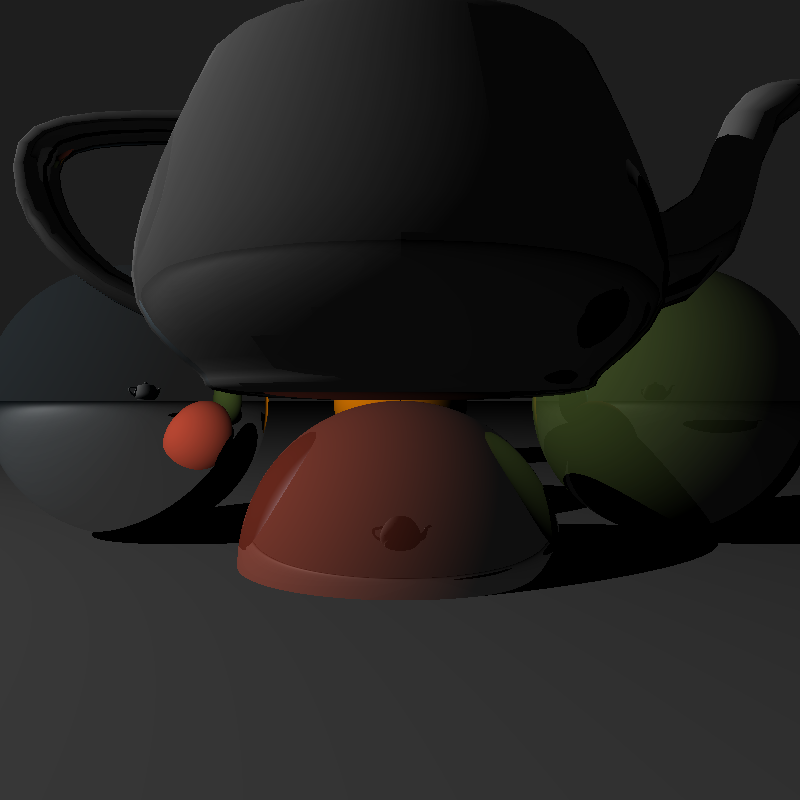
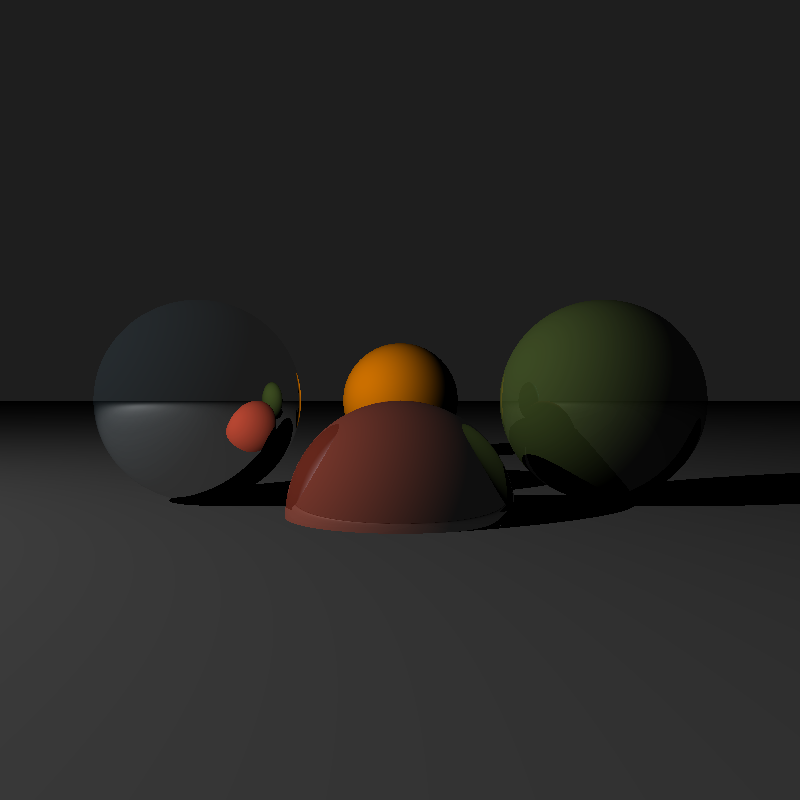
perf: parallel tracing

diff --git a/src/main.rs b/src/main.rs
@@ -1,11 +1,14 @@
 #![feature(range_contains)]
 
-//extern crate serde_json;
 extern crate image;
+extern crate rayon;
+extern crate serde_json;
 
 use std::f64;
 use std::fs::File;
 use std::time::SystemTime;
+
+use rayon::prelude::*;
 
 use image::{ImageBuffer, ImageRgb8, Pixel, Rgb};
 
@@ -128,8 +131,8 @@ impl Light for PointLight {
 }
 
 struct Scene {
-    lights: Vec<Box<Light>>,
-    objects: Vec<Model<Box<Geometry>>>,
+    lights: Vec<Box<Light + Sync>>,
+    objects: Vec<Model<Box<Geometry + Sync>>>,
 
     depth: u16,
     background: Rgb<u8>,
@@ -188,7 +191,7 @@ impl Scene {
         }).unwrap_or(self.background)
     }
 
-    fn closest_intersection(&self, ray: &Ray<f64>) -> Option<(&Model<Box<Geometry>>, Intersection)> {
+    fn closest_intersection(&self, ray: &Ray<f64>) -> Option<(&Model<Box<Geometry + Sync>>, Intersection)> {
         let mut t = f64::INFINITY;
         let mut closest = None;
 
@@ -230,11 +233,7 @@ fn main() {
     let width = 800;
     let height = 800;
 
-    let mut buf = ImageBuffer::new(width, height);
-
     let viewport = Viewport { width: 1.0, height: 1.0 };
-
-    let mesh = Mesh::load("teapot.obj.txt").unwrap();
 
     let mut scene = Scene::new(Rgb([30, 30, 30]));
 
@@ -249,15 +248,16 @@ fn main() {
         },
     });
 
-    for t in mesh.triangles {
-        scene.objects.push(Model {
-            geometry: Box::new(t),
-            material: Material {
-                color: Rgb([127, 127, 127]),
-                reflective: 0.2,
-            },
-        });
-    }
+//    let mesh = Mesh::load("teapot.obj.txt").unwrap();
+//    for t in mesh.triangles {
+//        scene.objects.push(Model {
+//            geometry: Box::new(t),
+//            material: Material {
+//                color: Rgb([127, 127, 127]),
+//                reflective: 0.2,
+//            },
+//        });
+//    }
 
     scene.objects.push(Model {
         geometry: Box::new(Sphere {
@@ -310,13 +310,17 @@ fn main() {
         }));
     }
 
-    let origin = Point::new(0.0, 0.0, -2.0);
+    let origin = Point::new(0.0, 0.0, -4.0);
 
     let now = SystemTime::now();
     println!("Start rendering ...");
     println!("  - models: {}", scene.objects.len());
     println!("  - lights: {}", scene.lights.len());
-    for (n, (x, y, pixel)) in buf.enumerate_pixels_mut().enumerate() {
+
+    let pixels: Vec<Rgb<u8>> = (0..width * height).into_par_iter().map(|n| {
+        let x = n % width;
+        let y = n / width;
+
         let sx = x as f64 + width as f64 / -2.0;
         let sy = height as f64 / 2.0 - y as f64;
 
@@ -326,14 +330,19 @@ fn main() {
 
         let ray = Ray::new(origin, Vec3::new(vx, vy, vz), 1.0..1.0e20);
 
-        *pixel = scene.trace(&ray);
-        if n as u32 % ((width * height) / 100) == 0 {
-            println!("Progress: {}%", n as u32 / ((width * height) / 100));
-        }
-    }
+        let color = scene.trace(&ray);
+
+        color
+    }).collect();
+
+
+    let mut buf = ImageBuffer::new(width, height);
+    for (x, y, pixel) in buf.enumerate_pixels_mut() {
+        *pixel = pixels[(y * width + x) as usize];
+    };
 
     let elapsed = now.elapsed().unwrap();
-    println!("Finished, elapsed: {} ms", (elapsed.as_secs() as f64 + elapsed.subsec_nanos() as f64 * 1e-9) * 1e3);
+    println!("Finished, elapsed: {:.3} ms", (elapsed.as_secs() as f64 + elapsed.subsec_nanos() as f64 * 1e-9) * 1e3);
     let file = &mut File::create("photon.png").unwrap();
 
     ImageRgb8(buf).save(file, image::PNG).unwrap();
